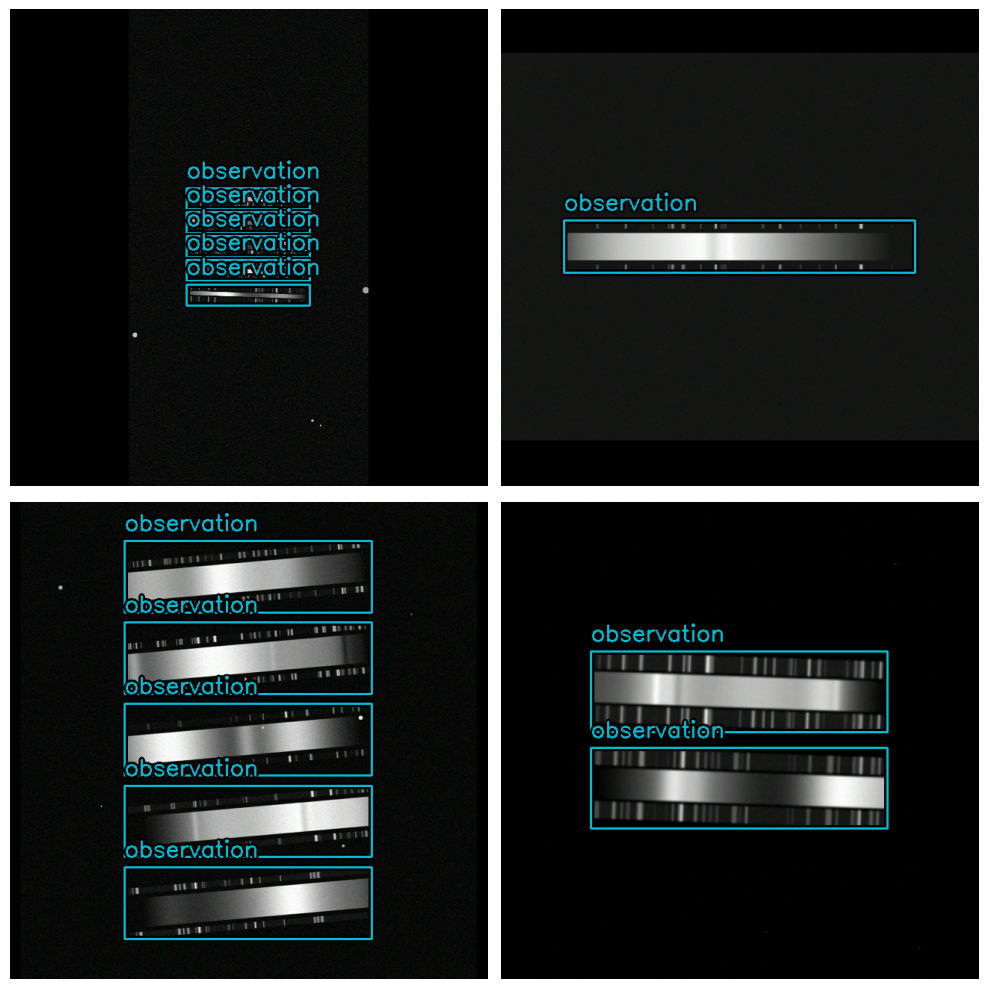
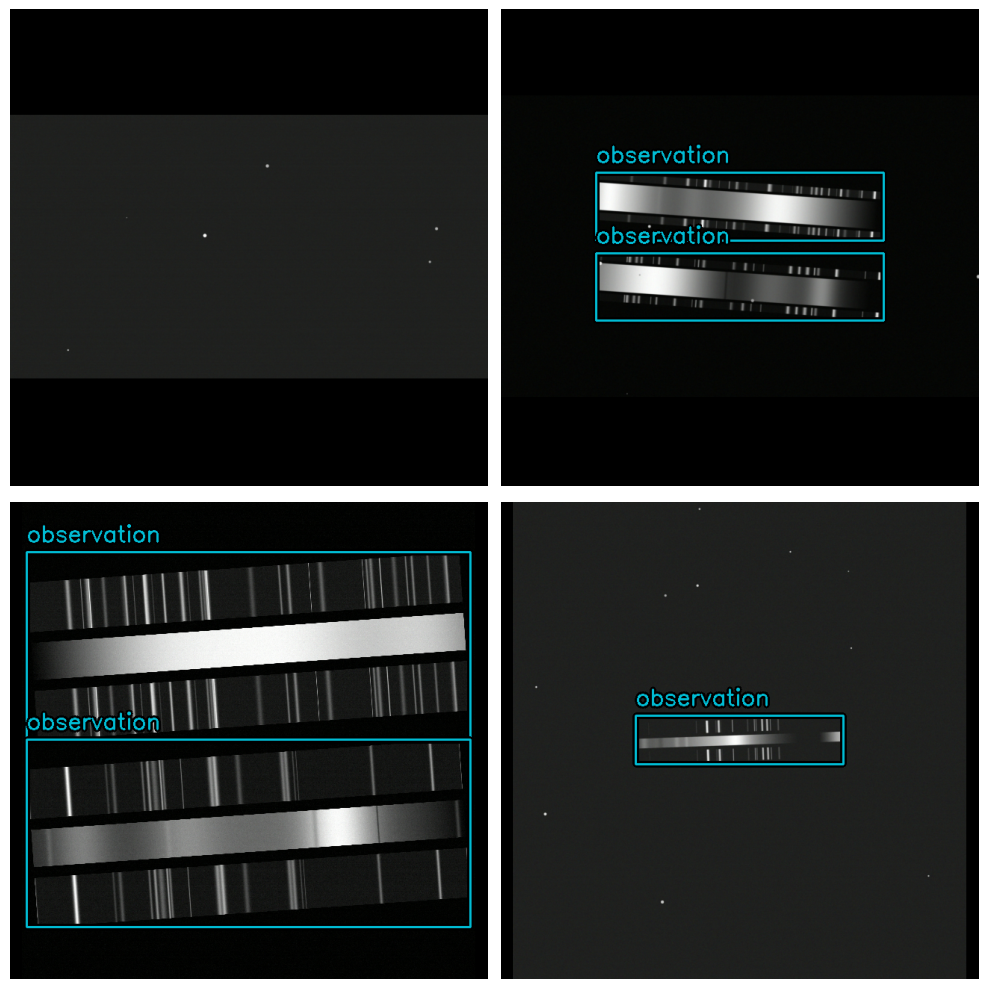
:construction: Modelo entrena, falta visualizacion y guardado

diff --git a/main.py b/main.py
@@ -4,25 +4,31 @@ from tqdm.auto import tqdm
 from callbacks.EvaluateCOCOMetricsCallback import EvaluateCOCOMetricsCallback
 from utils.loadFiles import load_dataset, txt_to_annotation
 
-
 import tensorflow as tf
 from keras.optimizers import Adam
 
 from utils.parse import center_rel_xywh_to_rel_xywh
 from utils.resize import resize_rel_center_xywh
-from utils.visualize import visualize_dataset
+from utils.visualize import visualize_dataset, visualize_detections
 
 import keras_cv
-# from keras_cv import bounding_box
-# from keras_cv import visualization
 
 
 SPLIT_RATIO = 0.2
 BATCH_SIZE = 4
 LEARNING_RATE = 0.001
-EPOCH = 5
+EPOCH = 1
 GLOBAL_CLIPNORM = 10.0
 SAVE_PATH = 'models/model.keras'
+
+# Archivos a ignorar
+exclude = [
+    'D:\Datasets\conGSSSP\images\157.jpg',
+    'D:\Datasets\conGSSSP\images\17.jpg',
+    'D:\Datasets\conGSSSP\images\183.jpg',
+    'D:\Datasets\conGSSSP\images\223.jpg',
+    'D:\Datasets\conGSSSP\images\23.jpg'
+]
 
 class_ids = [
     "observation"
@@ -30,8 +36,8 @@ class_ids = [
 class_mapping = dict(zip(range(len(class_ids)), class_ids))
 
 # Ubicacion de las imagenes y anotaciones
-path_images = "/Users/s.a.p.a/Documents/Datasets/conGSSSP/images/" # "D:\\Datasets\\conGSSSP\\images\\"
-path_annot = "/Users/s.a.p.a/Documents/Datasets/conGSSSP/labels/" # "D:\\Datasets\\conGSSSP\\labels\\"
+path_images = "D:\\Datasets\\conGSSSP_v2\\images\\" # "/Users/s.a.p.a/Documents/Datasets/conGSSSP/images/"
+path_annot = "D:\\Datasets\\conGSSSP_v2\\labels\\" # "/Users/s.a.p.a/Documents/Datasets/conGSSSP/labels/" 
 
 # Recuperar archivos TXT de etiquetas ordenados
 txt_files = sorted(
@@ -66,21 +72,10 @@ for txt_file in tqdm(txt_files):
     bbox.append(boxes)
     classes.append(class_ids)
 
-# Manejo de casos vacios
-processed_boxes = []
-for b in bbox:
-    if len(b) == 0:
-        processed_boxes.append(tf.zeros((0, 4), dtype=tf.float32))
-    else:
-        processed_boxes.append(tf.convert_to_tensor(b, dtype=tf.float32))
-
 
 # Cajas, Clases y Caminos de imagenes mejor como tensores
-bbox = tf.ragged.constant(processed_boxes)
-print('___________')
-print(bbox.shape)
+bbox = tf.ragged.constant(bbox, ragged_rank=1, inner_shape=(4,))
 classes = tf.ragged.constant(classes)
-print(bbox.shape)
 image_paths = tf.ragged.constant(image_paths)
 
 # Dataset final
@@ -155,10 +150,33 @@ yolo.compile(
     box_loss='ciou'
 )
 
+callbacks = [
+    EvaluateCOCOMetricsCallback(val_ds, SAVE_PATH)
+]
+
 # Entrenar
 yolo.fit(
     train_ds,
     validation_data=val_ds,
-    callbacks=[EvaluateCOCOMetricsCallback(val_ds, SAVE_PATH)],
+    #callbacks=callbacks,
     epochs=EPOCH
+)
+
+
+### Visualizar predicciones ###
+# Entrenamiento
+visualize_detections(
+    yolo, 
+    dataset=train_ds, 
+    bounding_box_format="rel_xywh",
+    rows=2, cols=2, class_mapping=class_mapping, 
+    save_path="train_predictions.png"
+)
+# Validacion
+visualize_detections(
+    yolo, 
+    dataset=val_ds, 
+    bounding_box_format="rel_xywh",
+    rows=2, cols=2, class_mapping=class_mapping, 
+    save_path="val_predictions.png"
 )

diff --git a/utils/visualize.py b/utils/visualize.py
@@ -4,6 +4,8 @@ Funciones para la visualizacion de datos
 '''
 from keras_cv import visualization
 import matplotlib.pyplot as plt
+from keras_cv import bounding_box
+import tensorflow as tf
 
 def visualize_dataset(
         inputs, 
@@ -38,6 +40,49 @@ def visualize_dataset(
         class_mapping=class_mapping,
     )
     
+    if save_path:
+        plt.savefig(save_path, bbox_inches="tight")
+        plt.close()
+
+def visualize_detections(model, dataset, bounding_box_format,
+                         rows, cols, class_mapping, save_path=None):
+    """Visualiza las detecciones realizadas por un modelo.
+
+    Args:
+        model (_type_): Modelo que realiza las predicciones.
+        dataset (_type_): Conjunto de datos
+        bounding_box_format (_type_): Formato de las cajas 
+            delimitadoras.
+        rows (_type_): _description_
+        cols (_type_): _description_
+        class_mapping (_type_): _description_
+        save_path (_type_, optional): _description_. Defaults to None.
+    """
+    images, y_true = next(iter(dataset.take(1)))
+    y_pred = model.predict(images)
+    tf.print(
+        "_____________\n",
+        'y_pred',type(y_pred), y_pred.shape()
+        "\n_____________\n",
+        'y_true',type(y_true), y_true.shape()
+        "\n_____________",
+    )
+    y_pred = bounding_box.to_ragged(y_pred)
+
+    visualization.plot_bounding_box_gallery(
+        images,
+        value_range=(0, 255),
+        bounding_box_format=bounding_box_format,
+        y_true=y_true,
+        y_pred=y_pred,
+        scale=4,
+        rows=rows,
+        cols=cols,
+        show=True,
+        font_scale=0.7,
+        class_mapping=class_mapping,
+    )
+
     if save_path:
         plt.savefig(save_path, bbox_inches="tight")
         plt.close()

diff --git a/callbacks/EvaluateCOCOMetricsCallback.py b/callbacks/EvaluateCOCOMetricsCallback.py
@@ -1,5 +1,6 @@
 from keras.callbacks import Callback
 import keras_cv
+import tensorflow as tf
 
 class EvaluateCOCOMetricsCallback(Callback):
     """
@@ -22,9 +23,15 @@ class EvaluateCOCOMetricsCallback(Callback):
 
     def on_epoch_end(self, epoch, logs):
         self.metrics.reset_state()
-        for batch in self.data:
-            images, y_true = batch[0], batch[1]
+        for images, y_true in self.data:
             y_pred = self.model.predict(images, verbose=0)
+            tf.print(
+                "_____________\n",
+                y_pred,
+                "\n_____________",
+                y_true,
+                "\n_____________",
+            )
             self.metrics.update_state(y_true, y_pred)
 
         metrics = self.metrics.result(force=True)
@@ -37,5 +44,3 @@ class EvaluateCOCOMetricsCallback(Callback):
             self.model.save(self.save_path)  
 
         return logs
-
-

diff --git a/utils/loadFiles.py b/utils/loadFiles.py
@@ -23,7 +23,6 @@ def txt_to_annotation(txt_file):
     with open(txt_file, "r") as f:
         lines = f.readlines()
 
-
     for line in lines:
         parts = line.strip().split()
         class_id = int(parts[0])
